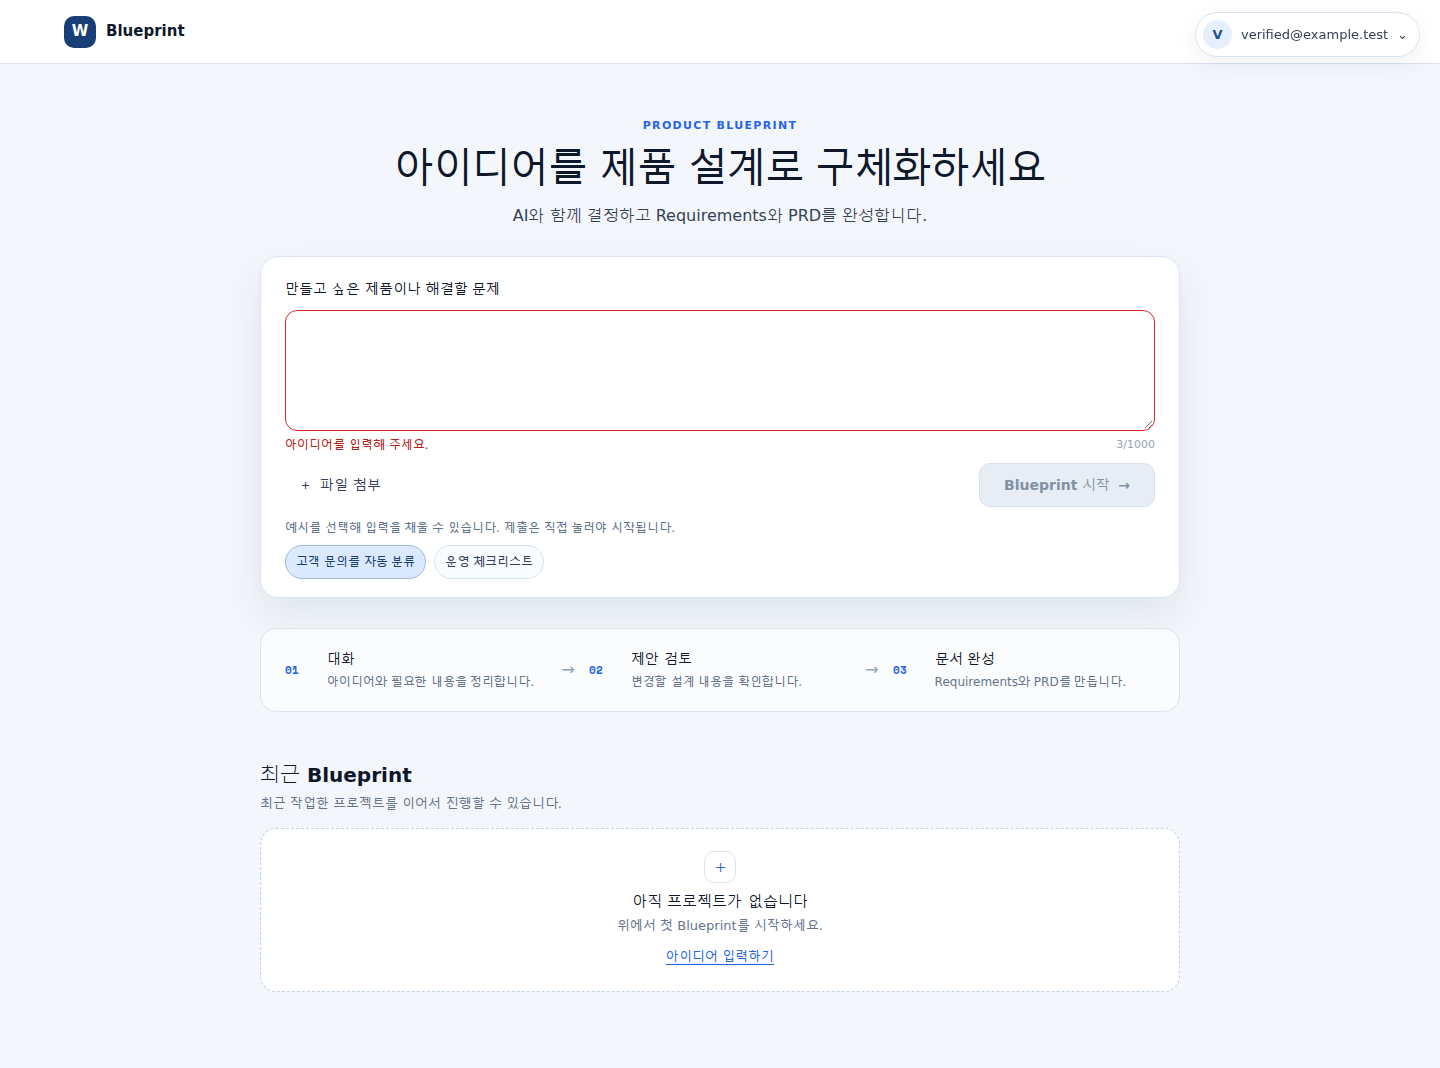
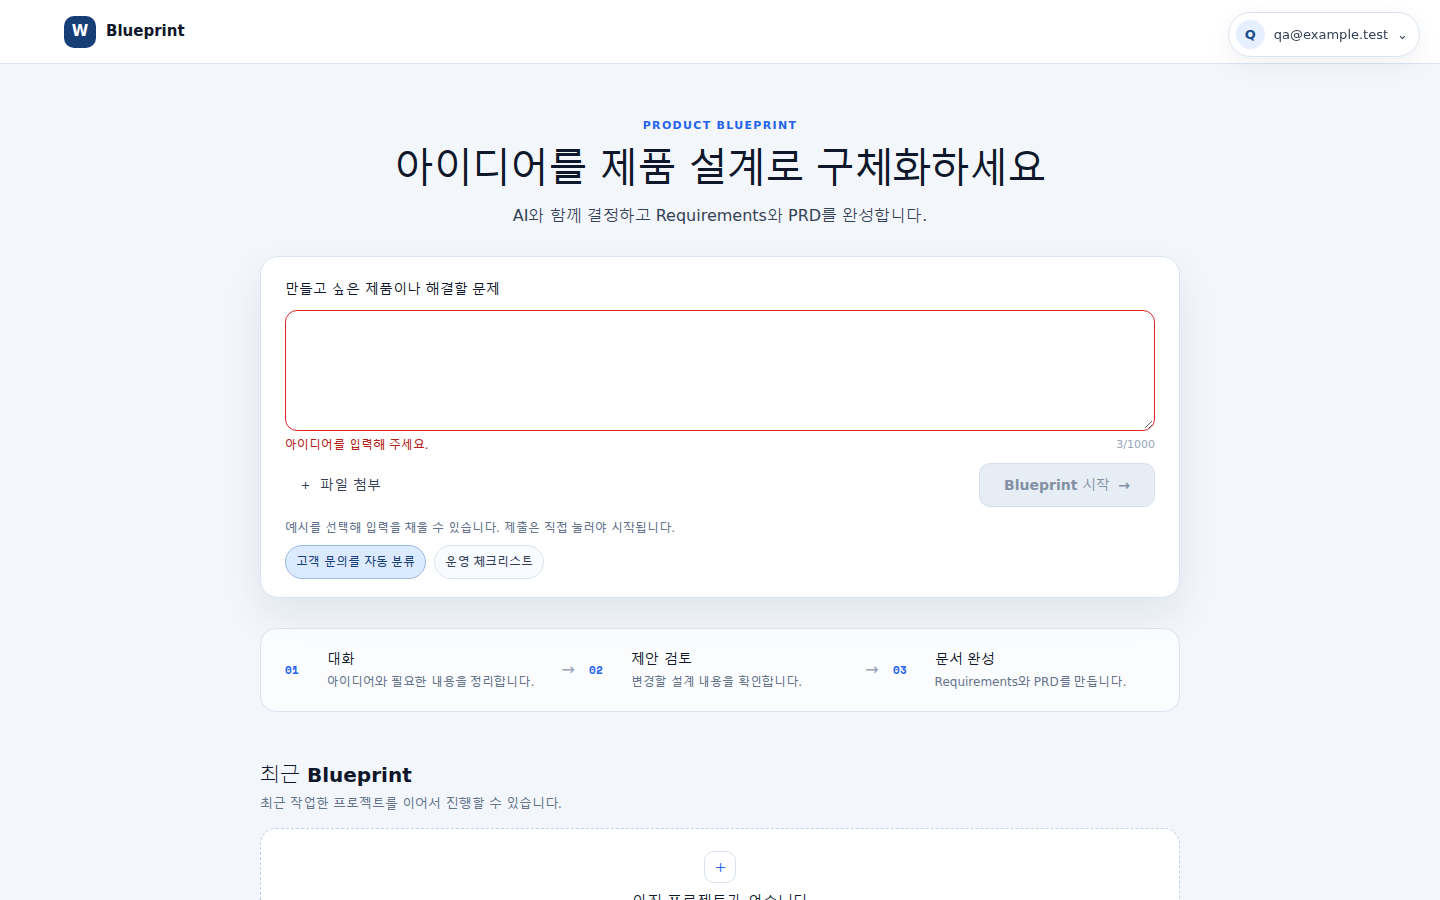
Correct PRJ validation and viewport evidence

diff --git a/docs/delivery/evidence/PRJ-PR-01/README.md b/docs/delivery/evidence/PRJ-PR-01/README.md
@@ -1,6 +1,6 @@
 # PRJ-PR-01 UI evidence
 
-Final implementation screenshots captured by Playwright Chromium on 2026-10-14 after the full `npm run test:ci` run. Desktop viewport is 1440×900 and mobile viewport is 390×844. These screenshots are stored in the repository so they can be reviewed from the PR.
+Final implementation screenshots captured by Playwright Chromium on 2026-10-14. Home empty, input example, and validation images are exact viewport captures at desktop 1440×900 and mobile 390×844. The remaining states are full-page captures taken at those same viewport widths. These screenshots are stored in the repository so they can be reviewed from the PR.
 
 | State | Desktop | Mobile |
 | --- | --- | --- |

diff --git a/docs/tasks/PRJ-PR-01/test-results.md b/docs/tasks/PRJ-PR-01/test-results.md
@@ -17,7 +17,7 @@ The independent reviewer reported **PASS** on exact PR HEAD `1249a031b5fab94918c
 
 | Command | Result |
 | --- | --- |
-| `npx playwright test tests/e2e/auth-provider.spec.ts --workers=1` | Passed, 5/5 |
+| `npx --no-install playwright test tests/e2e/auth-provider.spec.ts --workers=1 --project=desktop-chromium` | Passed, 5/5 desktop Chromium tests. The Playwright configuration has desktop and mobile projects; the explicit project flag makes the 5-test result scope unambiguous. |
 | `npm run test:unit` | Passed, 111/111 |
 | `git diff --check` | Passed |
 
